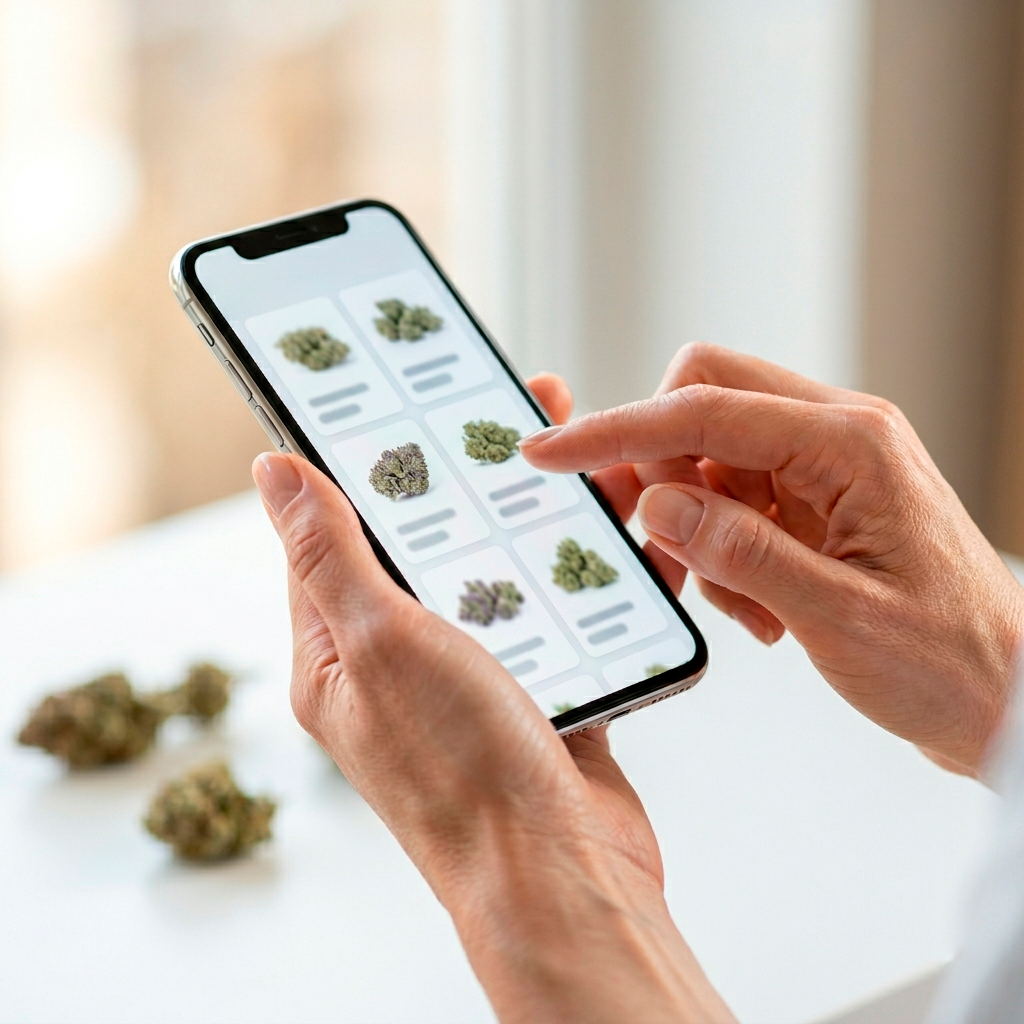
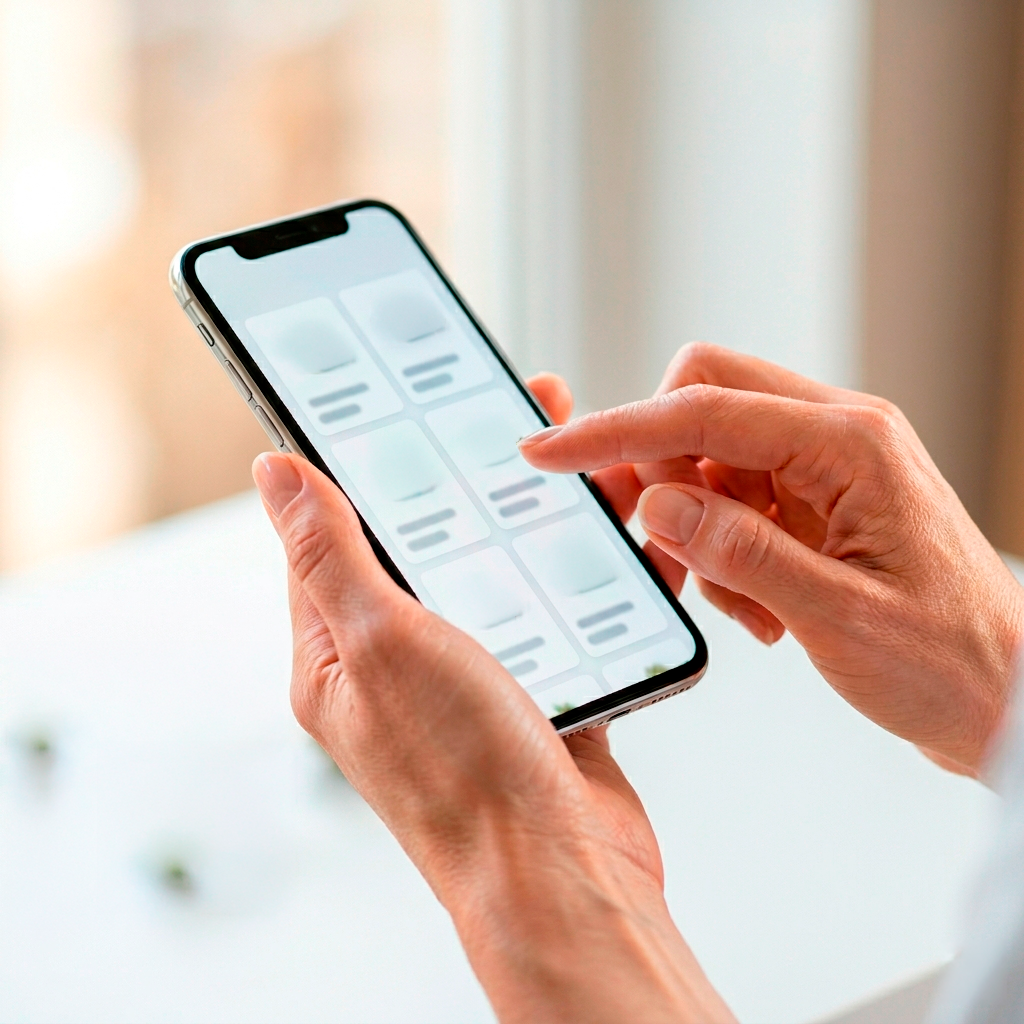
video pictures updated

diff --git a/src/app/hero.tsx b/src/app/hero.tsx
@@ -174,7 +174,7 @@ export default function Hero({
 }: HeroProps) {
   const heroVideoSrc = landingTheme === 'dark'
     ? '/hero-night.mp4'
-    : '/bubble-explose.mov'
+    : '/bubble-explose.mp4'
 
   const heroChecklistItems = [
     'Lieferung in 30-90 Minuten in Berlin',